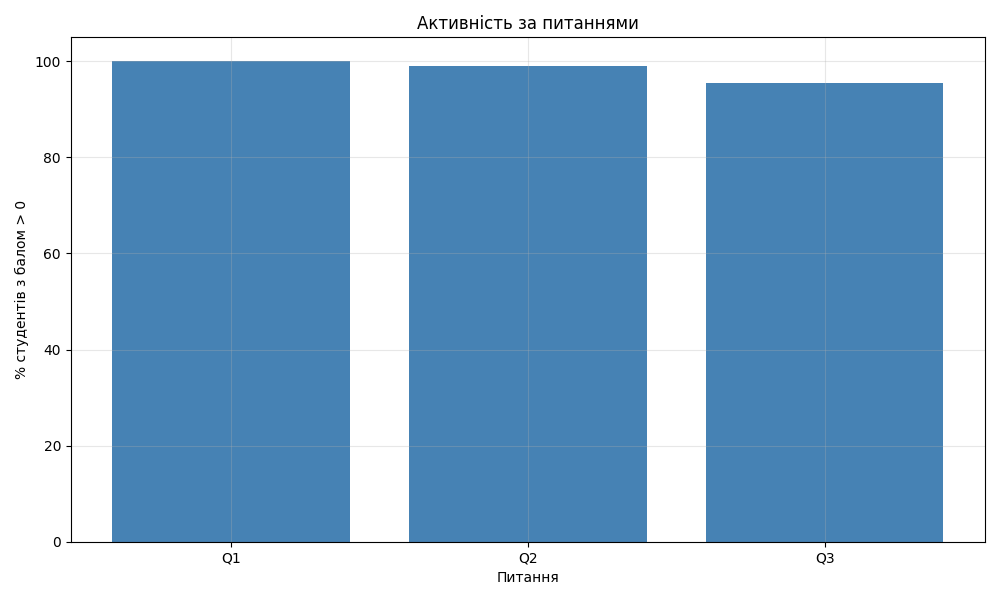
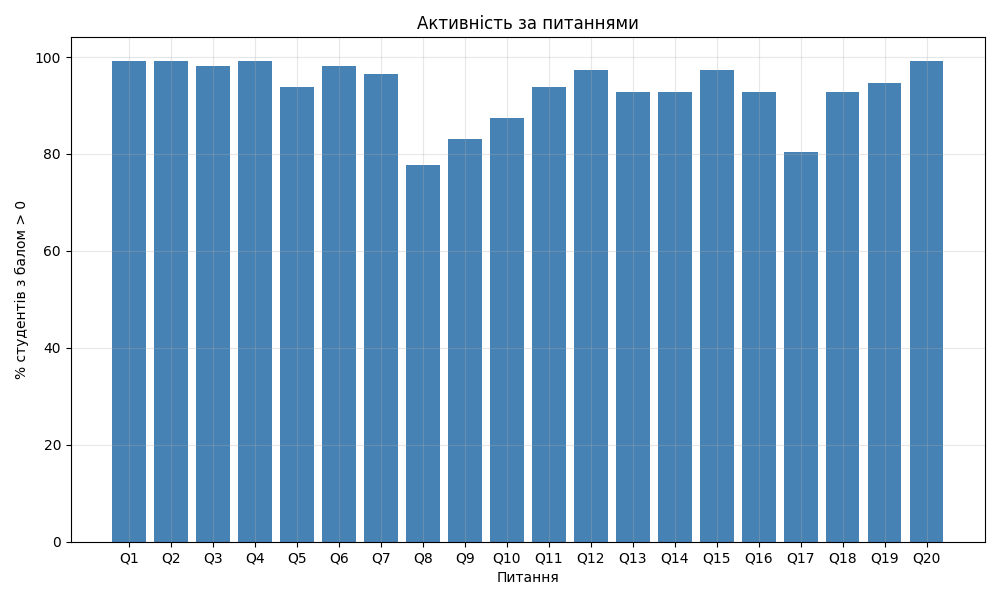
fixed issues in task 4

diff --git a/Lab9/main.py b/Lab9/main.py
@@ -201,7 +201,7 @@ class Apple:
                 print(f"{error}")
             raise SystemExit(1)
 
-        print(f"Яблуко #{self._index} створено: {self._state}")
+        print(f"Яблуко №{self._index} створено: {self._state}")
 
     def grow(self):
         current_idx = self.states.index(self._state)
@@ -348,9 +348,21 @@ class KmrCsv:
         try:
             students = []
             with open(self.ref, 'r', encoding='utf-8') as f:
-                reader = csv.DictReader(f)
+                reader = csv.reader(f)
+
                 for row in reader:
-                    students.append(row)
+                    if len(row) < 5:
+                        continue
+
+                    student = {
+                        "id": row[0],
+                        "start": row[1],
+                        "end": row[2],
+                        "duration": row[3],
+                        "total": row[4].replace(',', '.'),
+                        "questions": [v.replace(',', '.') for v in row[5:]]
+                    }
+                    students.append(student)
             return students
         except Exception as e:
             print(f"Помилка читання CSV: {e}")
@@ -358,7 +370,7 @@ class KmrCsv:
 
     def file_info(self):
         students = self.read_csv()
-        print(f"КМР #{self.num}: {len(students)} студентів")
+        print(f"КМР №{self.num}: {len(students)} студентів")
 
 
 class Statistic:
@@ -367,107 +379,70 @@ class Statistic:
         if not students:
             return tuple()
 
-        cols = list(students[0].keys())
-        question_cols = cols[-3:]
+        questions_count = len(students[0]["questions"])
+        total_correct = [0] * questions_count
 
-        total_correct = [0] * len(question_cols)
-
-        for student in students:
-            for i, col in enumerate(question_cols):
+        for st in students:
+            for i, val in enumerate(st["questions"]):
                 try:
-                    value = float(student[col].replace(',', '.'))
-                    if value > 0:
+                    if float(val) > 0:
                         total_correct[i] += 1
                 except:
                     pass
 
-        percentages = tuple((correct / len(students)) * 100 for correct in total_correct)
-        return percentages
+        return tuple(correct / len(students) * 100 for correct in total_correct)
 
     def marks_stat(self, students: List[Dict]) -> Dict[float, int]:
         marks = {}
-        cols = list(students[0].keys())
-        question_cols = cols[-3:]
-
-        for student in students:
-            total = 0
-            for col in question_cols:
+        for st in students:
+            total = 0.0
+            for val in st["questions"]:
                 try:
-                    value = float(student[col].replace(',', '.'))
-                    total += value
+                    total += float(val)
                 except:
                     pass
-
-            marks[round(total, 2)] = marks.get(round(total, 2), 0) + 1
-
+            total = round(total, 2)
+            marks[total] = marks.get(total, 0) + 1
         return marks
 
     def marks_per_time(self, students: List[Dict]) -> Dict[str, float]:
         result = {}
-        cols = list(students[0].keys())
-
-        id_col = cols[0]
-        duration_col = cols[3]
-        question_cols = cols[-3:]
-
-        for student in students:
-            student_id = student[id_col]
-
-            total_mark = 0
-            for col in question_cols:
+        for st in students:
+            total_mark = 0.0
+            for val in st["questions"]:
                 try:
-                    value = float(student[col].replace(',', '.'))
-                    total_mark += value
+                    total_mark += float(val)
                 except:
                     pass
 
-            try:
-                duration_str = student[duration_col]
-                time_match = re.search(r'(\d+)\s*хв\s*(\d+)\s*сек', duration_str)
-                if time_match:
-                    minutes = int(time_match.group(1))
-                    seconds = int(time_match.group(2))
-                    total_seconds = minutes * 60 + seconds
-                    total_minutes = total_seconds / 60
+            m = re.search(r'(\d+)\s*хв\s*(\d+)\s*сек', st["duration"])
+            if not m:
+                continue
+            minutes = int(m.group(1))
+            seconds = int(m.group(2))
+            total_minutes = (minutes * 60 + seconds) / 60
+            if total_minutes <= 0:
+                continue
 
-                    if total_minutes > 0:
-                        result[student_id] = total_mark / total_minutes
-            except:
-                pass
-
+            result[st["id"]] = total_mark / total_minutes
         return result
 
-    def best_marks_per_time(self, students: List[Dict], bottom_margin: float, top_margin: float) -> Tuple:
-        if not isinstance(bottom_margin, (int, float)) or not isinstance(top_margin, (int, float)):
-            print("Межі мають бути числами")
-            return tuple()
-
-        if bottom_margin < 0 or top_margin < bottom_margin:
-            print("Неправильний діапазон")
-            return tuple()
-
-        marks_per_time = self.marks_per_time(students)
-        cols = list(students[0].keys())
-        question_cols = cols[-3:]
-
+    def best_marks_per_time(self, students, bottom_margin, top_margin):
+        mpt = self.marks_per_time(students)
         filtered = []
 
-        for student in students:
-            student_id = student[cols[0]]
-
-            total_mark = 0
-            for col in question_cols:
+        for st in students:
+            total_mark = 0.0
+            for val in st["questions"]:
                 try:
-                    value = float(student[col].replace(',', '.'))
-                    total_mark += value
+                    total_mark += float(val)
                 except:
                     pass
 
-            if student_id in marks_per_time and bottom_margin <= total_mark <= top_margin:
-                filtered.append((student_id, total_mark, marks_per_time[student_id]))
+            if st["id"] in mpt and bottom_margin <= total_mark <= top_margin:
+                filtered.append((st["id"], total_mark, mpt[st["id"]]))
 
         filtered.sort(key=lambda x: x[2], reverse=True)
-
         return tuple(filtered[:5])
 
 
